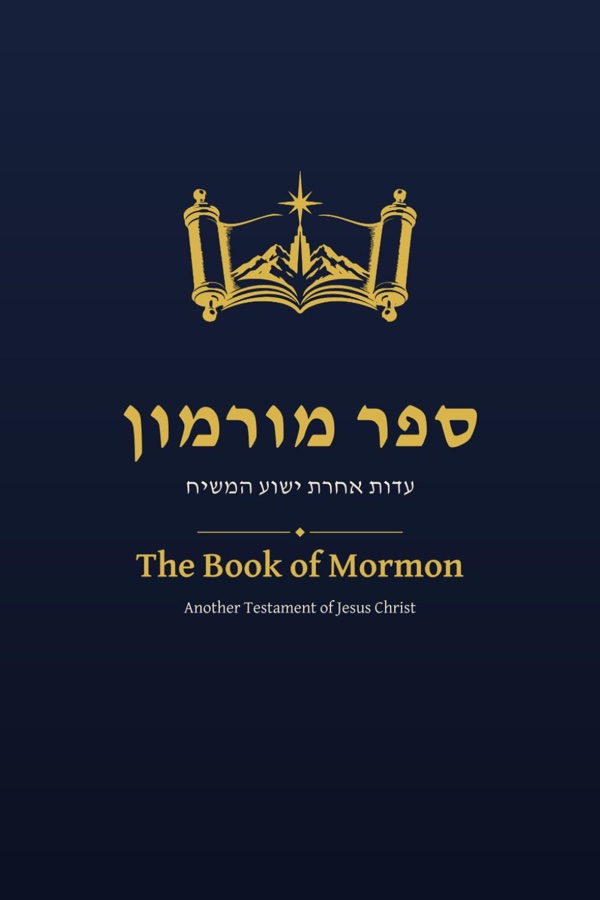
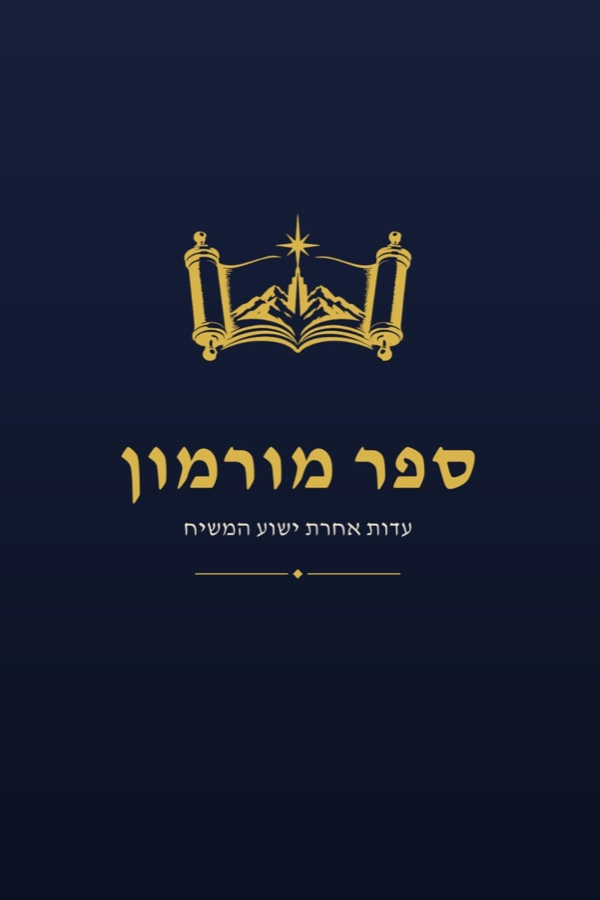
In Print: the new Amazon fronts for the Interlinear and Full Hebrew editions
Pulled from the listings (51rkUEfi9aL, 519u-QIUmXL) at full size and set to
900px tall as before: the Interlinear now carries the engraved mark and no
frame, the Full Hebrew front is Hebrew only. The Dual and Triple fronts are
unchanged on Amazon (pixel diff 0.1) and keep their files. Versions bumped
(interlinear ?v=7, hebrew ?v=8) in editions.js, the precache, the og:image
tags and the volume landings so phones and iMessage fetch the new pictures.

Changed region(s): [[0.21, 0.4356, 0.81, 0.6844], [0.3, 0.1867, 0.69, 0.4044]]

diff --git a/in-print.html b/in-print.html
@@ -33,7 +33,7 @@ html.sw-in-app .landing-update-note { display: none; }
 <meta property="og:title" content="Sefer Mormon in Print — the Hebrew Book of Mormon editions">
 <meta property="og:description" content="Five printed editions of the Hebrew Book of Mormon: interlinear, full Hebrew, footnote hardcover, dual language, and the triple combination.">
 <meta property="og:type" content="website">
-<meta property="og:image" content="https://sefermormon.com/bom/images/cover-interlinear.jpg?v=6">
+<meta property="og:image" content="https://sefermormon.com/bom/images/cover-interlinear.jpg?v=7">
 <meta property="og:site_name" content="Sefer Mormon">
 <style>
 /* One long page, no reader chrome. The cards are .ed-* in reader.css. */
@@ -66,7 +66,7 @@ html.sw-in-app .landing-update-note { display: none; }
       </p>
 
 <!-- editions:start (generated from editions.js by tools/build_static_pages.js — do not edit) -->
-<div class="ed-grid"><a class="ed-card" href="https://www.amazon.com/dp/B0GVZFM6YR" target="_blank" rel="noopener"><span class="ed-cover"><img src="bom/images/cover-interlinear.jpg?v=6" alt="Hebrew Book of Mormon Interlinear Edition" width="696" height="900" loading="lazy"></span><span class="ed-title">Interlinear Edition</span><span class="ed-format">Softcover · 8.5 × 11 in</span><span class="ed-blurb">The whole Book of Mormon with its English gloss set under every Hebrew word, two columns to a large page. The edition this site’s interlinear view is printed from.</span><span class="ed-buy">Buy on Amazon →</span></a><a class="ed-card" href="https://www.amazon.com/dp/B0DVTJC9HJ" target="_blank" rel="noopener"><span class="ed-cover"><img src="bom/images/cover-hebrew.jpg?v=7" alt="Hebrew Book of Mormon" width="600" height="900" loading="lazy"></span><span class="ed-title">Full Hebrew Edition</span><span class="ed-format">Softcover · 6 × 9 in</span><span class="ed-blurb">The Hebrew text alone, pointed, verse by verse, in a reader’s volume. Nothing on the page but the Book of Mormon in the Hebrew of the prophets.</span><span class="ed-buy">Buy on Amazon →</span></a><a class="ed-card" href="https://www.lulu.com/shop/christopher-lambe/%D7%A1%D7%A4%D7%A8-%D7%9E%D7%95%D7%A8%D7%9E%D7%95%D7%9F/hardcover/product-2m87weq.html" target="_blank" rel="noopener"><span class="ed-cover"><img src="bom/images/cover-hardcover.jpg?v=3" alt="Hebrew Book of Mormon, footnote edition — blue linen hardcover with dust jacket" width="578" height="900" loading="lazy"></span><span class="ed-title">Footnote Edition</span><span class="ed-format">Hardcover · Blue linen · Dust jacket</span><span class="ed-blurb">The Hebrew text with the translator’s footnotes, bound in blue linen under a dust jacket. The edition for the shelf.</span><span class="ed-buy">Buy on Lulu →</span></a><a class="ed-card" href="https://www.amazon.com/dp/B0GGQZG9K9" target="_blank" rel="noopener"><span class="ed-cover"><img src="bom/images/cover-dual.jpg?v=3" alt="Dual Language Book of Mormon" width="629" height="900" loading="lazy"></span><span class="ed-title">Dual Language Edition</span><span class="ed-format">Softcover · 7 × 10 in</span><span class="ed-blurb">Hebrew on the left page and the English on the right, verse for verse, for reading the two side by side.</span><span class="ed-buy">Buy on Amazon →</span></a><a class="ed-card" href="https://www.amazon.com/dp/B0H11CV516" target="_blank" rel="noopener"><span class="ed-cover"><img src="bom/images/cover-triple.jpg?v=6" alt="Triple Combination" width="600" height="900" loading="lazy"></span><span class="ed-title">Triple Combination</span><span class="ed-format">Softcover</span><span class="ed-blurb">The Book of Mormon, the Doctrine and Covenants and the Pearl of Great Price in Hebrew, bound as one volume.</span><span class="ed-buy">Buy on Amazon →</span></a></div>
+<div class="ed-grid"><a class="ed-card" href="https://www.amazon.com/dp/B0GVZFM6YR" target="_blank" rel="noopener"><span class="ed-cover"><img src="bom/images/cover-interlinear.jpg?v=7" alt="Hebrew Book of Mormon Interlinear Edition" width="696" height="900" loading="lazy"></span><span class="ed-title">Interlinear Edition</span><span class="ed-format">Softcover · 8.5 × 11 in</span><span class="ed-blurb">The whole Book of Mormon with its English gloss set under every Hebrew word, two columns to a large page. The edition this site’s interlinear view is printed from.</span><span class="ed-buy">Buy on Amazon →</span></a><a class="ed-card" href="https://www.amazon.com/dp/B0DVTJC9HJ" target="_blank" rel="noopener"><span class="ed-cover"><img src="bom/images/cover-hebrew.jpg?v=7" alt="Hebrew Book of Mormon" width="600" height="900" loading="lazy"></span><span class="ed-title">Full Hebrew Edition</span><span class="ed-format">Softcover · 6 × 9 in</span><span class="ed-blurb">The Hebrew text alone, pointed, verse by verse, in a reader’s volume. Nothing on the page but the Book of Mormon in the Hebrew of the prophets.</span><span class="ed-buy">Buy on Amazon →</span></a><a class="ed-card" href="https://www.lulu.com/shop/christopher-lambe/%D7%A1%D7%A4%D7%A8-%D7%9E%D7%95%D7%A8%D7%9E%D7%95%D7%9F/hardcover/product-2m87weq.html" target="_blank" rel="noopener"><span class="ed-cover"><img src="bom/images/cover-hardcover.jpg?v=3" alt="Hebrew Book of Mormon, footnote edition — blue linen hardcover with dust jacket" width="578" height="900" loading="lazy"></span><span class="ed-title">Footnote Edition</span><span class="ed-format">Hardcover · Blue linen · Dust jacket</span><span class="ed-blurb">The Hebrew text with the translator’s footnotes, bound in blue linen under a dust jacket. The edition for the shelf.</span><span class="ed-buy">Buy on Lulu →</span></a><a class="ed-card" href="https://www.amazon.com/dp/B0GGQZG9K9" target="_blank" rel="noopener"><span class="ed-cover"><img src="bom/images/cover-dual.jpg?v=3" alt="Dual Language Book of Mormon" width="629" height="900" loading="lazy"></span><span class="ed-title">Dual Language Edition</span><span class="ed-format">Softcover · 7 × 10 in</span><span class="ed-blurb">Hebrew on the left page and the English on the right, verse for verse, for reading the two side by side.</span><span class="ed-buy">Buy on Amazon →</span></a><a class="ed-card" href="https://www.amazon.com/dp/B0H11CV516" target="_blank" rel="noopener"><span class="ed-cover"><img src="bom/images/cover-triple.jpg?v=6" alt="Triple Combination" width="600" height="900" loading="lazy"></span><span class="ed-title">Triple Combination</span><span class="ed-format">Softcover</span><span class="ed-blurb">The Book of Mormon, the Doctrine and Covenants and the Pearl of Great Price in Hebrew, bound as one volume.</span><span class="ed-buy">Buy on Amazon →</span></a></div>
 <script type="application/ld+json">{"@context":"https://schema.org","@type":"ItemList","name":"Sefer Mormon in print","url":"https://sefermormon.com/in-print.html","itemListElement":[{"@type":"ListItem","position":1,"item":{"@type":"Book","name":"Hebrew Book of Mormon: Interlinear Edition","alternateName":"Sefer Mormon — Interlinear Edition","author":{"@type":"Person","name":"Chris Lambe"},"inLanguage":"he","bookFormat":"https://schema.org/Paperback","image":"https://sefermormon.com/bom/images/cover-interlinear.jpg","url":"https://www.amazon.com/dp/B0GVZFM6YR","offers":{"@type":"Offer","url":"https://www.amazon.com/dp/B0GVZFM6YR","availability":"https://schema.org/InStock","seller":{"@type":"Organization","name":"Amazon"}}}},{"@type":"ListItem","position":2,"item":{"@type":"Book","name":"Sefer Mormon: the Book of Mormon in Hebrew","alternateName":"Sefer Mormon — Full Hebrew Edition","author":{"@type":"Person","name":"Chris Lambe"},"inLanguage":"he","bookFormat":"https://schema.org/Paperback","image":"https://sefermormon.com/bom/images/cover-hebrew.jpg","url":"https://www.amazon.com/dp/B0DVTJC9HJ","offers":{"@type":"Offer","url":"https://www.amazon.com/dp/B0DVTJC9HJ","availability":"https://schema.org/InStock","seller":{"@type":"Organization","name":"Amazon"}}}},{"@type":"ListItem","position":3,"item":{"@type":"Book","name":"Sefer Mormon: Footnote Edition, blue linen hardcover","alternateName":"Sefer Mormon — Footnote Edition","author":{"@type":"Person","name":"Chris Lambe"},"inLanguage":"he","bookFormat":"https://schema.org/Hardcover","image":"https://sefermormon.com/bom/images/cover-hardcover.jpg","url":"https://www.lulu.com/shop/christopher-lambe/%D7%A1%D7%A4%D7%A8-%D7%9E%D7%95%D7%A8%D7%9E%D7%95%D7%9F/hardcover/product-2m87weq.html","offers":{"@type":"Offer","url":"https://www.lulu.com/shop/christopher-lambe/%D7%A1%D7%A4%D7%A8-%D7%9E%D7%95%D7%A8%D7%9E%D7%95%D7%9F/hardcover/product-2m87weq.html","availability":"https://schema.org/InStock","seller":{"@type":"Organization","name":"Lulu"}}}},{"@type":"ListItem","position":4,"item":{"@type":"Book","name":"Sefer Mormon: Dual Language Edition, Hebrew and English","alternateName":"Sefer Mormon — Dual Language Edition","author":{"@type":"Person","name":"Chris Lambe"},"inLanguage":"he","bookFormat":"https://schema.org/Paperback","image":"https://sefermormon.com/bom/images/cover-dual.jpg","url":"https://www.amazon.com/dp/B0GGQZG9K9","offers":{"@type":"Offer","url":"https://www.amazon.com/dp/B0GGQZG9K9","availability":"https://schema.org/InStock","seller":{"@type":"Organization","name":"Amazon"}}}},{"@type":"ListItem","position":5,"item":{"@type":"Book","name":"Sefer Mormon: Triple Combination in Hebrew","alternateName":"Sefer Mormon — Triple Combination","author":{"@type":"Person","name":"Chris Lambe"},"inLanguage":"he","bookFormat":"https://schema.org/Paperback","image":"https://sefermormon.com/bom/images/cover-triple.jpg","url":"https://www.amazon.com/dp/B0H11CV516","offers":{"@type":"Offer","url":"https://www.amazon.com/dp/B0H11CV516","availability":"https://schema.org/InStock","seller":{"@type":"Organization","name":"Amazon"}}}}]}</script>
 <!-- editions:end -->
 

diff --git a/bom/bom.html b/bom/bom.html
@@ -15,15 +15,15 @@
 <meta name="description" content="The whole Book of Mormon in pre-exilic Classical Biblical Hebrew, free to read, with an English gloss, transliteration and root under every word.">
 <meta property="og:title" content="Hebrew Book of Mormon Interlinear — Sefer Mormon">
 <meta property="og:description" content="The whole Book of Mormon in pre-exilic Classical Biblical Hebrew, every word with its English gloss, transliteration and root.">
-<meta property="og:image" content="https://sefermormon.com/bom/images/cover-interlinear.jpg?v=6">
+<meta property="og:image" content="https://sefermormon.com/bom/images/cover-interlinear.jpg?v=7">
 <meta property="og:url" content="https://sefermormon.com/bom/bom.html">
 <meta property="og:type" content="book">
 <meta property="og:site_name" content="Sefer Mormon">
 <meta name="twitter:card" content="summary_large_image">
 <meta name="twitter:title" content="Sefer Mormon — Hebrew Interlinear Book of Mormon">
 <meta name="twitter:description" content="Classical Biblical Hebrew Book of Mormon with interlinear English glosses and transliteration.">
-<meta name="twitter:image" content="https://sefermormon.com/bom/images/cover-interlinear.jpg?v=6">
-<script type="application/ld+json">{"@context":"https://schema.org","@graph":[{"@type":"Person","@id":"https://sefermormon.com/#chris","name":"Chris Lambe","url":"https://sefermormon.com/","jobTitle":"Translator","sameAs":"https://www.amazon.com/stores/author/B0DTYPWNXM"},{"@type":"Book","name":"Sefer Mormon","alternateName":"The Book of Mormon in Classical Biblical Hebrew","inLanguage":"he","bookFormat":"https://schema.org/EBook","image":"https://sefermormon.com/bom/images/cover-interlinear.jpg?v=6","url":"https://sefermormon.com/bom/bom.html","sameAs":"https://www.amazon.com/dp/B0GVZFM6YR","identifier":{"@type":"PropertyValue","propertyID":"Amazon ASIN","value":"B0GVZFM6YR"},"translator":{"@id":"https://sefermormon.com/#chris"},"isPartOf":{"@id":"https://sefermormon.com/#website"},"publisher":{"@id":"https://sefermormon.com/#chris"}}]}</script>
+<meta name="twitter:image" content="https://sefermormon.com/bom/images/cover-interlinear.jpg?v=7">
+<script type="application/ld+json">{"@context":"https://schema.org","@graph":[{"@type":"Person","@id":"https://sefermormon.com/#chris","name":"Chris Lambe","url":"https://sefermormon.com/","jobTitle":"Translator","sameAs":"https://www.amazon.com/stores/author/B0DTYPWNXM"},{"@type":"Book","name":"Sefer Mormon","alternateName":"The Book of Mormon in Classical Biblical Hebrew","inLanguage":"he","bookFormat":"https://schema.org/EBook","image":"https://sefermormon.com/bom/images/cover-interlinear.jpg?v=7","url":"https://sefermormon.com/bom/bom.html","sameAs":"https://www.amazon.com/dp/B0GVZFM6YR","identifier":{"@type":"PropertyValue","propertyID":"Amazon ASIN","value":"B0GVZFM6YR"},"translator":{"@id":"https://sefermormon.com/#chris"},"isPartOf":{"@id":"https://sefermormon.com/#website"},"publisher":{"@id":"https://sefermormon.com/#chris"}}]}</script>
 <script>(function(){var h=(location.hostname||'').toLowerCase(),p=location.pathname.split('/').filter(Boolean),gh=h.slice(-10)==='github.io',base=gh&&p.length?location.origin+'/'+p[0]:location.origin,root=(h==='sefermormon.com'?'https://sefermormon.com':base).replace(/\/$/,''),page=root+'/bom/bom.html',c=document.getElementById('canonical-link');if(c)c.href=page;var o=document.querySelector('meta[property="og:url"]');if(o)o.content=page;})();</script>
 <meta name="theme-color" content="#1B2A41">
 <meta name="apple-itunes-app" content="app-id=6767954376">

diff --git a/editions.js b/editions.js
@@ -10,11 +10,11 @@
   var EDITIONS = [
     { key: 'interlinear', title: 'Interlinear Edition', name: 'Hebrew Book of Mormon: Interlinear Edition',
       format: 'Soft Cover', spec: 'Softcover · 8.5 × 11 in', seller: 'Amazon', href: 'https://www.amazon.com/dp/B0GVZFM6YR',
-      w: 696, h: 900, img: 'cover-interlinear.jpg?v=6', alt: 'Hebrew Book of Mormon Interlinear Edition',
+      w: 696, h: 900, img: 'cover-interlinear.jpg?v=7', alt: 'Hebrew Book of Mormon Interlinear Edition',
       blurb: 'The whole Book of Mormon with its English gloss set under every Hebrew word, two columns to a large page. The edition this site’s interlinear view is printed from.' },
     { key: 'hebrew', title: 'Full Hebrew Edition', name: 'Sefer Mormon: the Book of Mormon in Hebrew',
       format: 'Soft Cover', spec: 'Softcover · 6 × 9 in', seller: 'Amazon', href: 'https://www.amazon.com/dp/B0DVTJC9HJ',
-      w: 600, h: 900, img: 'cover-hebrew.jpg?v=7', alt: 'Hebrew Book of Mormon',
+      w: 600, h: 900, img: 'cover-hebrew.jpg?v=8', alt: 'Hebrew Book of Mormon',
       blurb: 'The Hebrew text alone, pointed, verse by verse, in a reader’s volume. Nothing on the page but the Book of Mormon in the Hebrew of the prophets.' },
     { key: 'footnote', title: 'Footnote Edition', name: 'Sefer Mormon: Footnote Edition, blue linen hardcover',
       format: 'Blue Linen · Dust Jacket', spec: 'Hardcover · Blue linen · Dust jacket', seller: 'Lulu',

diff --git a/bom/sw.js b/bom/sw.js
@@ -4,7 +4,7 @@
     the hook did not touch it (it pointed at scripts/write_build_version.js,
     which does not exist), so the list below had been frozen for days and
     every Book of Mormon asset change was served stale. Never hand-edit. */
-const CACHE = 'bom-2026-09-28T22-34-06';
+const CACHE = 'bom-2026-09-30T17-38-33';
 /** Shell only — verse *.js files are cached at runtime, refreshed in the background (see fetch handler). */
 const ASSETS = [
   './bom.html',
@@ -36,8 +36,8 @@ const ASSETS = [
   './topical_guide.js?v=3',
   './images/cover-dual.jpg?v=3',
   './images/cover-hardcover.jpg?v=3',
-  './images/cover-hebrew.jpg?v=7',
-  './images/cover-interlinear.jpg?v=6',
+  './images/cover-hebrew.jpg?v=8',
+  './images/cover-interlinear.jpg?v=7',
   './images/cover-triple.jpg?v=6'
 ];
 

diff --git a/he.html b/he.html
@@ -38,7 +38,7 @@ html.sw-in-app .landing-update-note { display: none; }
 <meta property="og:type" content="article">
 <meta property="og:url" content="https://sefermormon.com/he.html">
 <meta property="og:site_name" content="Sefer Mormon">
-<meta property="og:image" content="https://sefermormon.com/bom/images/cover-hebrew.jpg?v=7">
+<meta property="og:image" content="https://sefermormon.com/bom/images/cover-hebrew.jpg?v=8">
 <style>
 /* The page is Hebrew, so its column is rtl. The site chrome around it is
    not touched: dir on <html> would flip the header and the footer too. */

diff --git a/jst.html b/jst.html
@@ -23,7 +23,7 @@
 <meta property="og:url" content="https://sefermormon.com/jst.html">
 <meta property="og:type" content="book">
 <meta property="og:site_name" content="Sefer Mormon">
-<meta property="og:image" content="https://sefermormon.com/bom/images/cover-hebrew.jpg?v=7">
+<meta property="og:image" content="https://sefermormon.com/bom/images/cover-hebrew.jpg?v=8">
 <meta name="theme-color" content="#1B2A41">
 <meta name="apple-itunes-app" content="app-id=6767954376">
 <link rel="icon" type="image/png" href="icons/icon-192.png?v=3">

diff --git a/pgp.html b/pgp.html
@@ -23,7 +23,7 @@
 <meta property="og:url" content="https://sefermormon.com/pgp.html">
 <meta property="og:type" content="book">
 <meta property="og:site_name" content="Sefer Mormon">
-<meta property="og:image" content="https://sefermormon.com/bom/images/cover-hebrew.jpg?v=7">
+<meta property="og:image" content="https://sefermormon.com/bom/images/cover-hebrew.jpg?v=8">
 <meta name="theme-color" content="#1B2A41">
 <meta name="apple-itunes-app" content="app-id=6767954376">
 <link rel="icon" type="image/png" href="icons/icon-192.png?v=3">

diff --git a/dc.html b/dc.html
@@ -23,7 +23,7 @@
 <meta property="og:url" content="https://sefermormon.com/dc.html">
 <meta property="og:type" content="book">
 <meta property="og:site_name" content="Sefer Mormon">
-<meta property="og:image" content="https://sefermormon.com/bom/images/cover-hebrew.jpg?v=7">
+<meta property="og:image" content="https://sefermormon.com/bom/images/cover-hebrew.jpg?v=8">
 <meta name="theme-color" content="#1B2A41">
 <meta name="apple-itunes-app" content="app-id=6767954376">
 <link rel="icon" type="image/png" href="icons/icon-192.png?v=3">

diff --git a/ot.html b/ot.html
@@ -23,7 +23,7 @@
 <meta property="og:url" content="https://sefermormon.com/ot.html">
 <meta property="og:type" content="book">
 <meta property="og:site_name" content="Sefer Mormon">
-<meta property="og:image" content="https://sefermormon.com/bom/images/cover-hebrew.jpg?v=7">
+<meta property="og:image" content="https://sefermormon.com/bom/images/cover-hebrew.jpg?v=8">
 <meta name="theme-color" content="#1B2A41">
 <meta name="apple-itunes-app" content="app-id=6767954376">
 <link rel="icon" type="image/png" href="icons/icon-192.png?v=3">

diff --git a/service-worker.js b/service-worker.js
@@ -1,5 +1,5 @@
 /** Replaced on deploy by scripts/write_build_version.js (GITHUB_SHA). */
-const BUILD_ID = '2026-09-28T22-34-06';
+const BUILD_ID = '2026-09-30T17-38-33';
 const CACHE_NAME = 'standard-works-' + BUILD_ID;
 const OFFLINE_CACHE = 'standard-works-offline-v2';
 
